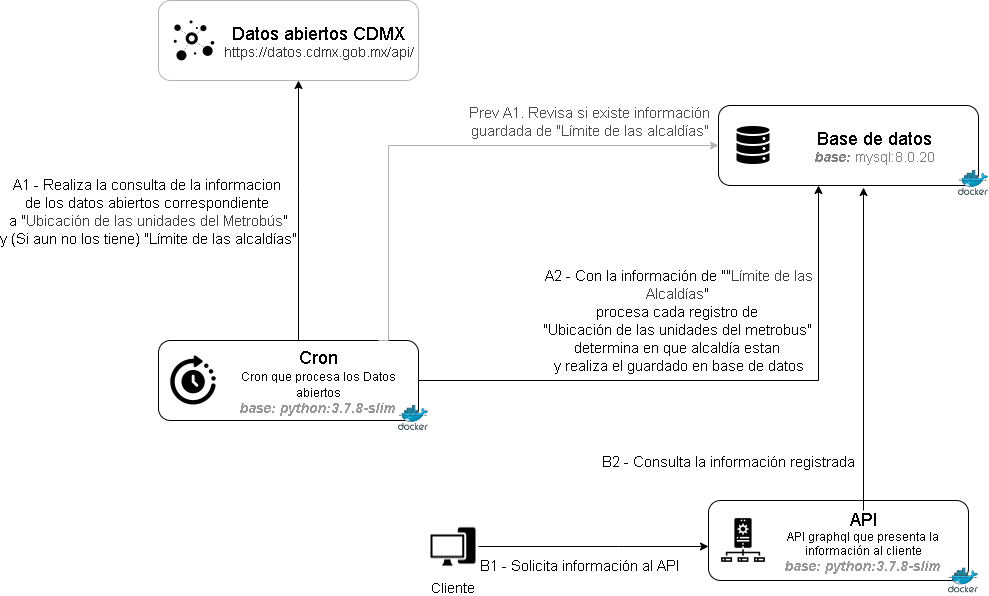
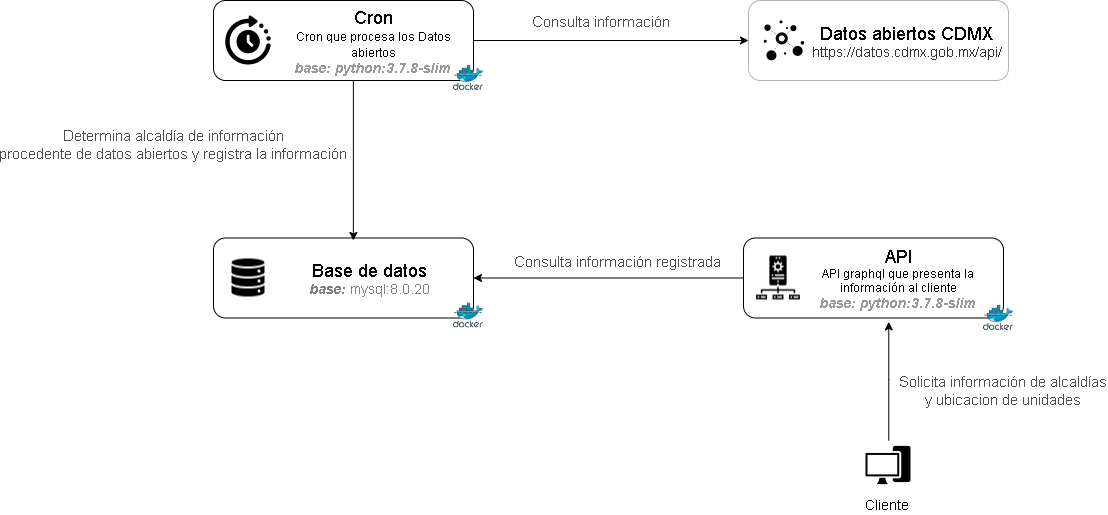
Diagramas de procesos

diff --git a/README.md b/README.md
@@ -1,7 +1,10 @@
 # Consulta de alcaldías y unidades de metrobus
 ## Tabla de contenido
-- [Introducción](#introduccion)
+- [Especificación](#especificacion)
 - [Diagrama general de la solución](#diagrama_general)
+- [Diagramas de secuencia del los procesos de la solucion](#procesos_solucion)
+    - [Proceso de consulta de datos abiertos y registro de información](#proc_consulta_datos_abiertos)
+    - [Procesos de consulta de información via API](#proc_consulta_api)
 - [Módulos](#modulos)
     - [Town hall sync](#mod_town_hall_sync)
     - [Domain](#domain)
@@ -14,11 +17,28 @@
     - [Database](#contenedor-database)
 
 
-## <span id="introduccion">Introducción</span>
+## <span id="especificacion">Especificación</span>
+
+Desarrollar un pipeline de análisis de datos utilizando los datos abiertos de la Ciudad de México
+correspondientes a la ubicación de las unidades del metrobús durante la última hora para
+obtener un histórico de la posición en la que se encuentra cada unidad que pueda ser
+consultado mediante un API Rest (o Graphql) filtrando por unidad o por alcaldía.
 
 
 ## <span id="diagrama_general">Diagrama general de la solución</span>
 ![Diagrama general de la solución](/assets/general.png)
+
+*<sub>Diagrama general simplificado de la solución</sub>*
+## <span id="procesos_solucion">Diagramas de secuencia del los procesos de la solucion</span>
+### <span id="proc_consulta_datos_abiertos">Proceso de consulta de datos abiertos y registro de información</span>
+![Proceso de consulta de datos abiertos](/assets/secuencia_recuperacion_datos.png)
+
+*<sub>Diagrama de secuencia de proceso de consulta de datos abiertos y registro de información</sub>*
+
+### <span id="proc_consulta_api">Procesos de consulta de información via API</span>
+![Proceso de consulta via API](/assets/secuencia_api.png)
+
+*<sub>Diagrama de secuencia de proceso de consulta via API</sub>*
 
 ## <span id="modulos">Módulos</span>
 ### <span id="town_hall_sync">Town hall sync [town_hall_sync]</span>
